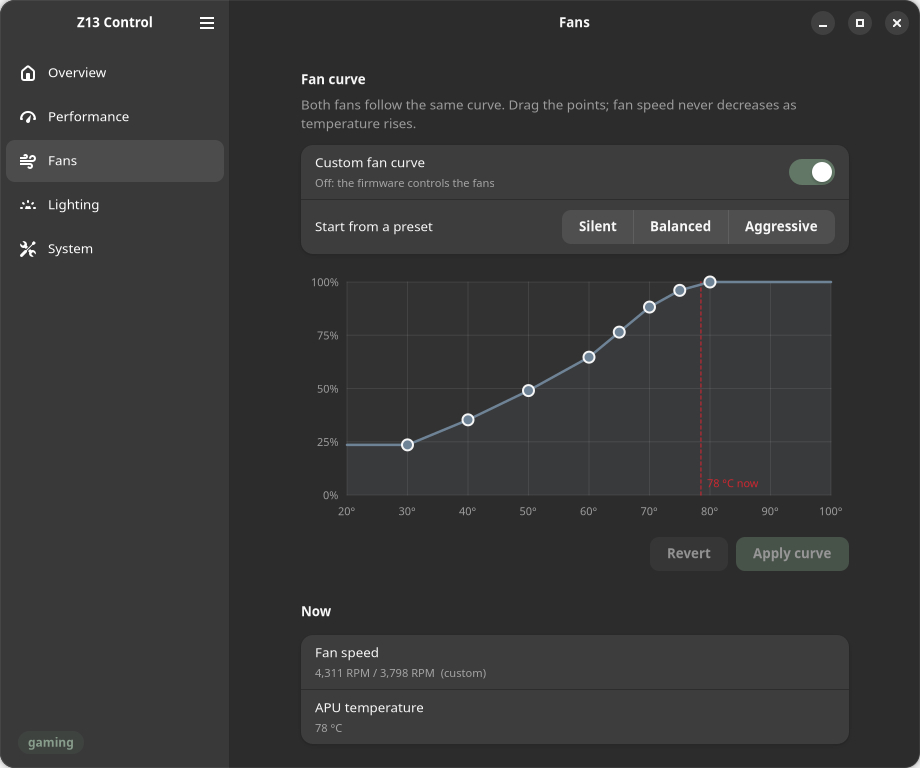
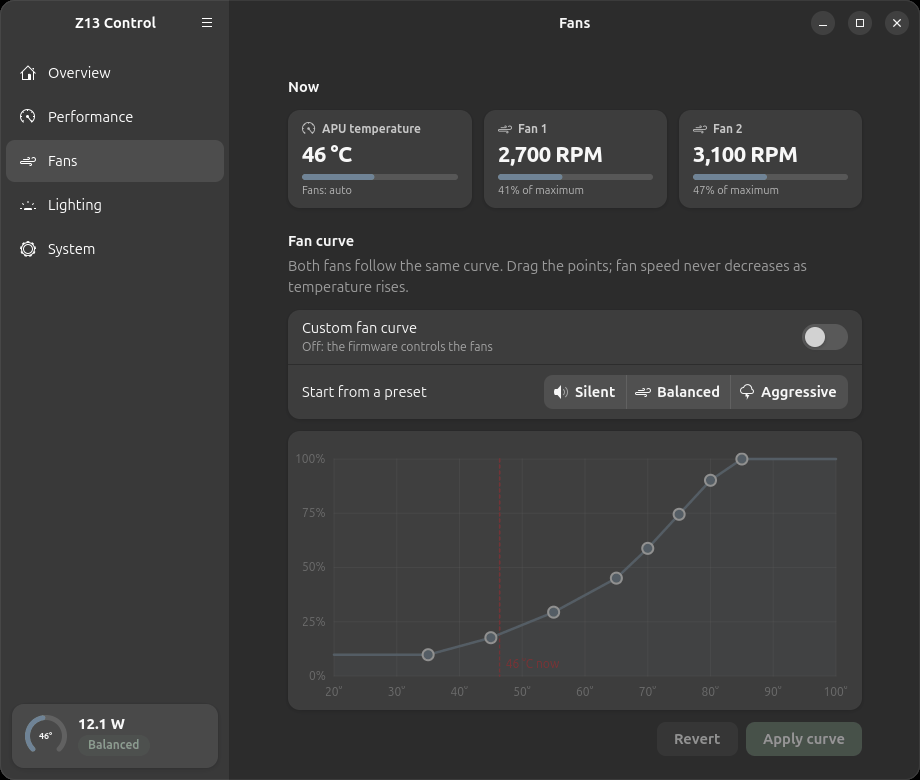
Update for 0.1.1

diff --git a/README.md b/README.md
@@ -37,23 +37,27 @@ widget to your panel the first time it starts.
 
 ### Live monitoring
 
-APU temperature and power, CPU and GPU load, RAM and GPU memory, fan speeds and
-battery, each with a two-minute graph that is already filled in when you open
+APU temperature and power, CPU and GPU load, RAM and GPU memory, NPU power, fan
+speeds and battery, each with a two-minute graph that is already filled in when you open
 the app, because the service records it continuously.
 
 ### Top-bar menu
 
 ![Top-bar menu](docs/screenshots/06-topbar-menu.png)
 
-Temperature in the top bar, and one click away: live readings, power profiles,
-power limits and fan presets, lighting, battery limit, auto-switch, alerts and
-the panel refresh rate — without opening the app.
+Temperature in the top bar, and one click away, a dashboard: a ring gauge for
+the APU temperature, the active profile as a badge, and tiles with bars for CPU
+and GPU load, memory, GPU memory, fan speeds and battery that turn amber and
+red as things heat up. Below it, profile buttons, power limits and fan presets,
+lighting, battery limit, auto-switch, alerts and the panel refresh rate —
+without opening the app. It follows your accent colour and light or dark style.
 
 ### KDE Plasma panel widget
 
 ![Plasma widget](docs/screenshots/08-plasma-widget.png)
 
-The same quick controls as a Plasma 6 widget, following your Plasma theme.
+The same dashboard and controls as a Plasma 6 widget, following your Plasma
+theme and accent colour.
 It is placed on your panel automatically; right-click the panel → *Add
 Widgets* → *Z13 Control* to add it again after removing it. Refresh-rate
 switching uses KScreen on Plasma.
@@ -64,7 +68,8 @@ switching uses KScreen on Plasma.
 
 **Quiet, Balanced and Performance** are the firmware's own profiles, shared with
 GNOME's power menu. Build **custom profiles** on top of them with their own
-power limits and fan curve, and switch automatically when you plug in or unplug.
+power limits, fan curve and CPU settings (energy preference, minimum clock and
+boost), and switch automatically when you plug in or unplug.
 
 Power limits use the kernel's own interface and the per-model range it reports,
 so values your machine would reject are refused up front. Sustained power above
@@ -92,9 +97,16 @@ the keyboard is detached, and your colours come back when the condition clears.
 
 ![System](docs/screenshots/05-system.png)
 
-Battery charge limit, automatic profile switching, boot sound, panel overdrive,
-panel refresh rate (with an optional drop to 60 Hz on battery), alerts when the
-APU stays hot, and export/import of your profiles and settings.
+Battery charge limit, automatic profile switching, boot sound, panel overdrive
+(remembered across reboots, optionally off on battery), panel refresh rate (with
+an optional drop to 60 Hz on battery), alerts when the APU stays hot, and
+export/import of your profiles and settings.
+
+**Tablet mode.** Pull the keyboard off and, with the option on, the desktop
+rotates and brings up the on-screen keyboard: Z13 Control reports tablet mode
+itself from whether the keyboard is attached, because the firmware's own switch
+is unreliable. The keyboard's touchpad can be switched off if its cursor jumps,
+and that choice survives reattaching it.
 
 ### Staying up to date
 
@@ -109,9 +121,11 @@ z13 status                      # everything at a glance
 z13 monitor                     # live temperature / power / fans
 z13 use performance             # switch profile
 z13 tdp 65 80 90                # power limits in watts
+z13 cpu --epp power --boost off # CPU energy preference and boost
 z13 fan set balanced            # fan preset or your own 8 points
 z13 light -m breathe -c cyan --color2 blue
 z13 battery 80                  # charge limit
+z13 tablet --switch on          # tablet mode when the keyboard is detached
 z13 export my-profiles.json     # back up profiles and settings
 z13 history usage.csv           # recorded telemetry as CSV
 ```
@@ -141,7 +155,35 @@ after resume.
 * Linux 6.11+ for fan curves and power limits; 6.19+ reports the per-model
   power range this app uses
 
+## What's new
+
+**0.1.1**
+
+* The top-bar menu is a visual dashboard: a temperature ring, gauge tiles for
+  load, memory, fans and battery, profile buttons, a drawn fan curve with the
+  live temperature, a lighting preview and a battery gauge, all in your accent
+  colour. The temperature in the top bar turns red when the APU reaches 90 °C.
+* Custom profiles can set the CPU's energy preference, minimum clock and
+  boost, kept in force even when the desktop rewrites them.
+* NPU power and load on the Overview.
+* Uninstall from inside the app (System → Remove), with one password prompt.
+* The app has the same look: an APU gauge and profile switch at the top of
+  the Overview, gauge tiles everywhere, the three power limits drawn against
+  the kernel's range, live fan tiles and a battery gauge, plus a status block
+  in the sidebar.
+* Tablet mode: report it to the desktop when the keyboard is detached, and
+  switch the keyboard touchpad off if its cursor jumps.
+* Auto-switch picks the right profile at boot for the current power source.
+* Panel overdrive is remembered across reboots and can be off on battery.
+* Lighting comes back when the lid is opened, and a double-reported press of
+  the Armoury Crate key no longer opens and closes the app.
+
+**0.1.0** — First release.
+
 ## Uninstall
+
+From the app: **System → Remove → Uninstall…** removes everything after one
+password prompt, optionally with your saved profiles. Or from a terminal:
 
 ```sh
 sudo apt remove z13-control     # Ubuntu / Debian
